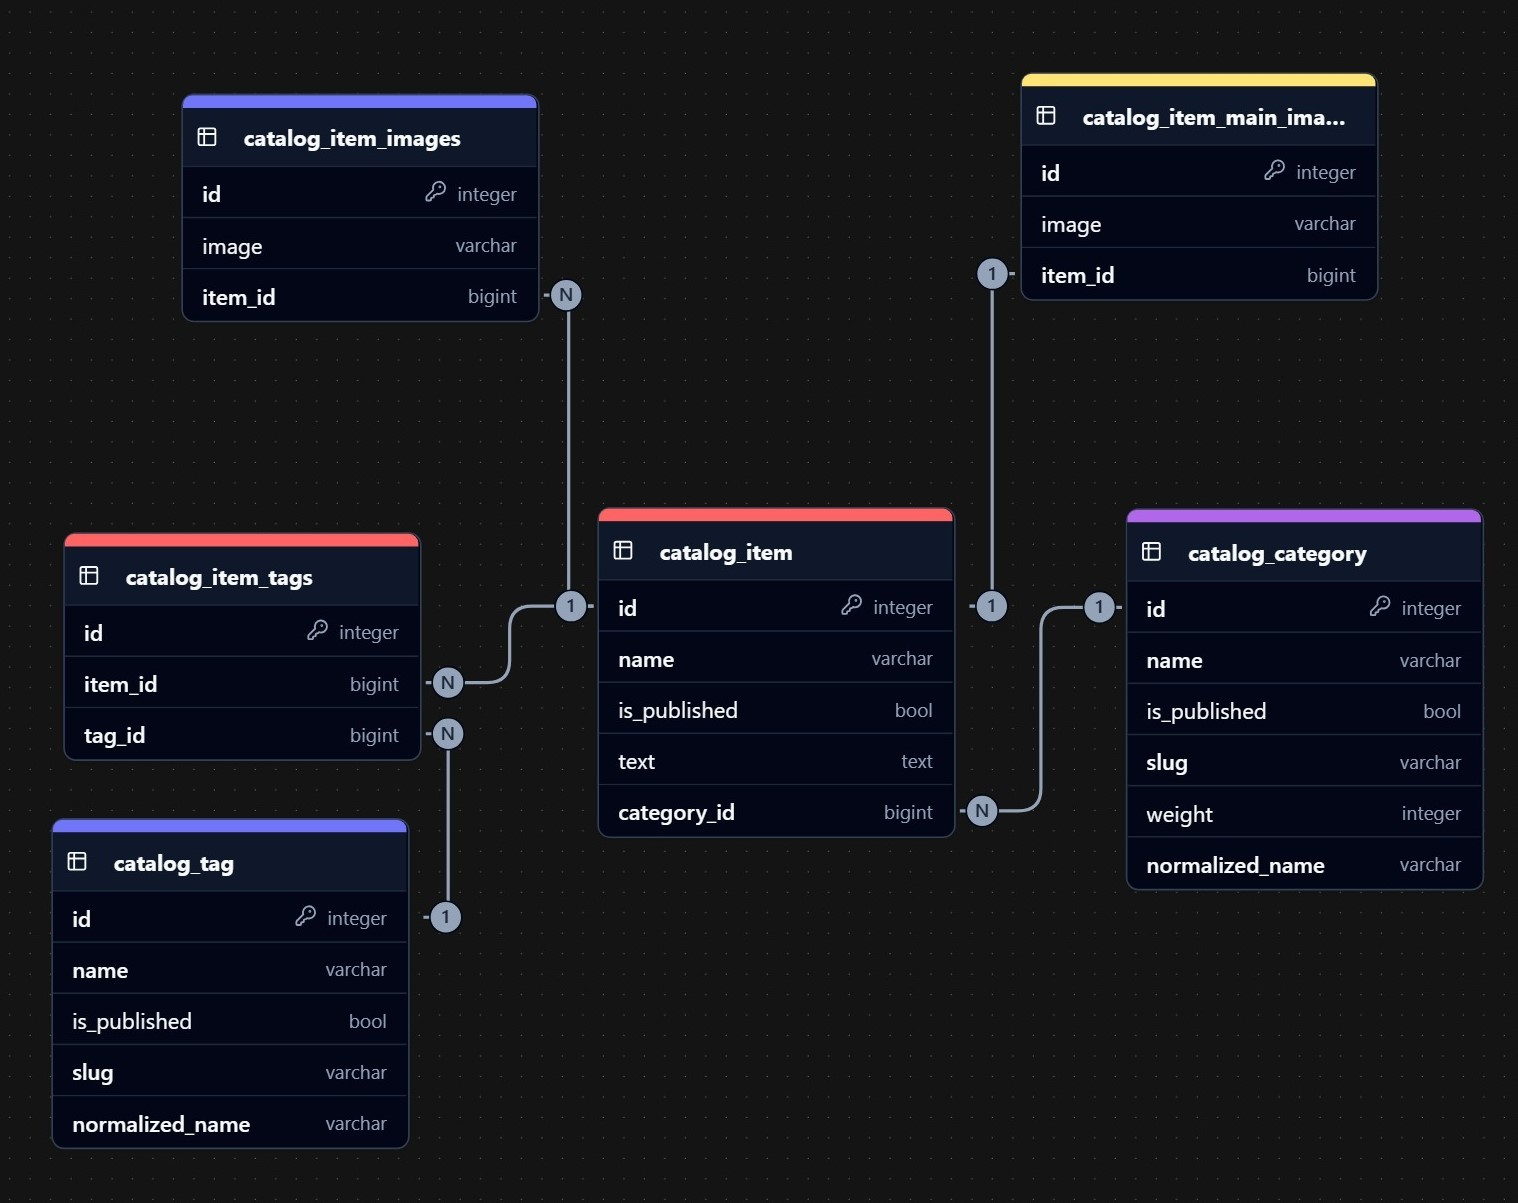
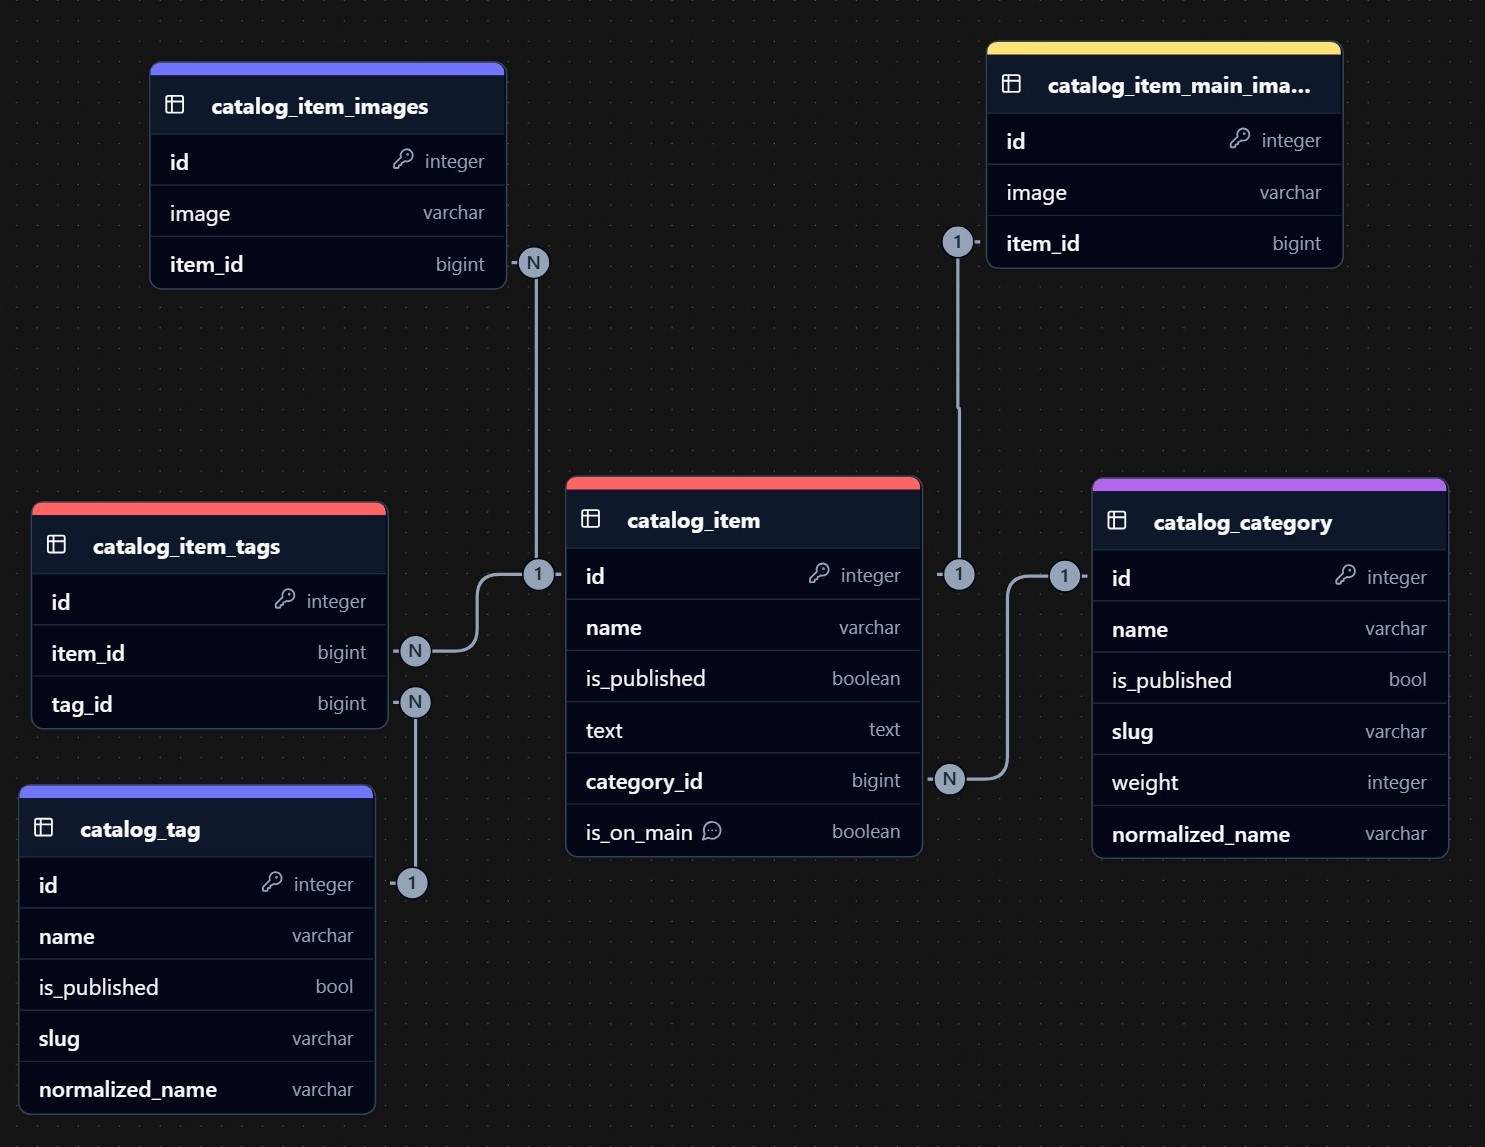
do first task
- add is_on_main field to item
- make view to get all data from db
- add new tests
- update ER diagram

Changed region(s): [[0.0, 0.0305, 0.9912, 0.9765], [0.031, 0.5187, 0.1239, 0.5798], [0.5576, 0.5798, 0.6195, 0.6408]]

diff --git a/lyceum/templates/catalog/item.html b/lyceum/templates/catalog/item.html
@@ -1,44 +1,54 @@
 {% extends 'base.html' %}
 {% load static %}
 
-{% block title %}FurFriends — {{ name }}{% endblock %}
+{% block title %}FurFriends — {{ item.name }}{% endblock %}
 
 {% block content %}
 <div class="row justify-content-center py-4">
-    <h1 class="text-center mb-4 title">{{ name }}</h1>
+    <h1 class="text-center mb-4 title">{{ item.name }}</h1>
     <div class="card h-100 bg-dark text-light shadow-lg border-0 item-detail-card">
         <div class="row h-100 g-4">
             <div class="col-md-6 d-flex item-image">
-                <img src="{% static image %}" alt="{{ name }}" class="img-fluid">
+                <img src="{{ item.main_image.get_image_300x300.url }}" alt="{{ name }}" class="img-fluid w-100">
             </div>
             <div class="col-md-6 card-body d-flex flex-column p-4 item-info">
                 <div class="flex-grow-1">
-                    <h5 class="card-title mb-1">Описание</h5>
-                    <p class="card-text mb-2">{{ description }}</p>
-                    <form method="post" class="mb-0">
-                        {% csrf_token %}
-                        <div class="mb-3">
-                            <label for="gender" class="form-label text-light">Пол:</label>
-                            <select name="gender" id="gender" class="form-select bg-dark text-light border-0">
-                                {% for choice in gender_choices %}
-                                    <option value="{{ choice.0 }}" {% if choice.0 == gender %}selected{% endif %}>
-                                        {{ choice.1 }}
-                                    </option>
+                    <div class="card-text">
+                        <p class="item-category"><strong>Категория:</strong> {{ item.category.name }}</p>
+                        <p class="item-tags"><strong>Теги:</strong> {% for tag in item.tags.all %}
+                            <span class="fw-normal fst-italic">{{ tag.name }}</span>{% if not forloop.last %}, {% endif %}
+                        {% endfor %}</p>
+
+                        <p class="mb-0"><strong>Описание:</strong> </p>
+                        {{ item.text|safe }}
+
+                        <p class="item-images"><strong>Фото:</strong></p>
+                        {% if item.images.all %}
+                        <div id="carouselExampleControls" class="carousel slide" data-bs-ride="carousel">
+                            <div class="carousel-inner">
+                                {% for image in item.images.all %}
+                                    {% if forloop.first %}
+                                    <div class="carousel-item active">
+                                    {% else %}
+                                    <div class="carousel-item">
+                                    {% endif %}
+                                        <img src="{{ image.get_image_300x300.url }}" alt="{{ item.name }} - Additional Image" class="d-block mx-auto">
+                                    </div>
                                 {% endfor %}
-                            </select>
+                            </div>
+                            <button class="carousel-control-prev" type="button" data-bs-target="#carouselExampleControls" data-bs-slide="prev">
+                                <span class="carousel-control-prev-icon" aria-hidden="true"></span>
+                                <span class="visually-hidden">Previous</span>
+                            </button>
+                            <button class="carousel-control-next" type="button" data-bs-target="#carouselExampleControls" data-bs-slide="next">
+                                <span class="carousel-control-next-icon" aria-hidden="true"></span>
+                                <span class="visually-hidden">Next</span>
+                            </button>
                         </div>
-                        <div class="mb-3">
-                            <label for="breed" class="form-label text-light">Порода:</label>
-                            <select name="breed" id="breed" class="form-select bg-dark text-light border-0">
-                                {% for choice in breed_choices %}
-                                    <option value="{{ choice.0 }}" {% if choice.0 == breed %}selected{% endif %}>
-                                        {{ choice.1 }}
-                                    </option>
-                                {% endfor %}
-                            </select>
-                        </div>
-                        <button type="submit" class="btn btn-primary w-100 mt-3">Добавить в корзину</button>
-                    </form>
+                        {% else %}
+                            <p>No additional images available.</p>
+                        {% endif %}
+                    </div>
                 </div>
                 <a href="{% url 'catalog:item_list' %}" class="btn btn-secondary mt-1">Вернуться к списку</a>
             </div>

diff --git a/lyceum/templates/includes/item_card.html b/lyceum/templates/includes/item_card.html
@@ -3,12 +3,19 @@
     <div class="card mx-auto text-light border-0 shadow-sm item-card">
         <div class="row g-0 h-100">
             <div class="col-md-6 d-flex item-image">
-                <img src="{% static item.image %}" alt="{{ item.name }}" class="img-fluid w-100">
+                <img src="{{ item.main_image.get_image_300x300.url }}" alt="{{ item.name }}" class="img-fluid w-100">
             </div>
             <div class="col-md-6 card-body h-100 d-flex flex-column p-3 item-info">
                 <div class="flex-grow-1 overflow-auto">
-                    <h5 class="card-title">{{ item.name }}</h5>
-                    <p class="card-text">{{ item.description }}</p>
+                    <h5 class="card-title text-center">{{ item.name }}</h5>
+                    <div class="card-text">
+                        <p class="item-category"><strong>Категория:</strong> {{ item.category.name }}</p>
+                        <p class="item-tags"><strong>Теги:</strong> {% for tag in item.tags.all %}
+                            <span class="fw-normal fst-italic">{{ tag.name }}</span>{% if not forloop.last %}, {% endif %}
+                        {% endfor %}</p>
+                        <p class="mb-0"><strong>Описание:</strong> </p>
+                        {{ item.text|truncatewords_html:10|safe }}
+                    </div>
                 </div>
                 <a href="{% url 'catalog:item_detail' pk=item.pk %}" class="btn btn-primary mt-auto">Подробнее</a>
             </div>

diff --git a/lyceum/catalog/views.py b/lyceum/catalog/views.py
@@ -1,48 +1,56 @@
-from http import HTTPStatus
-
+from django.db.models import Prefetch
 from django.http import HttpResponse
-from django.shortcuts import render
+from django.shortcuts import get_object_or_404, render
 
-ITEMS = {
-    1: {
-        "pk": 1,
-        "name": "Котик",
-        "description": (
-            "Милый котик для вашего дома. "
-            "Идеальный компаньон для любого любителя животных!"
-        ),
-        "image": "images/cat.jpg",
-    },
-    2: {
-        "pk": 2,
-        "name": "Енотик",
-        "description": (
-            "Игривый енот для радости. Отличный друг для весёлых моментов!"
-        ),
-        "image": "images/raccoon.jpg",
-    },
-}
-
-
-def get_item_view(request, pk, template_name):
-    if int(pk) in ITEMS:
-        item_data = ITEMS[pk]
-        return render(request, template_name, item_data)
-    return HttpResponse("Детали товара", status=HTTPStatus.OK)
+from catalog.models import Item, ItemImages, Tag
 
 
 def item_list(request):
     template = "catalog/catalog.html"
-    items = list(ITEMS.values())
-    return render(request, template, {"items": items})
+    items = (
+        Item.objects.filter(is_published=True)
+        .select_related("category", "main_image")
+        .prefetch_related(
+            Prefetch(
+                "tags",
+                queryset=Tag.objects.filter(is_published=True).only("name"),
+            )
+        )
+        .only("name", "text", "category", "main_image")
+        .order_by("category__name")
+    )
 
-
-def item_card(request, pk):
-    return get_item_view(request, pk, "catalog/item_card.html")
+    context = {
+        "items": items,
+    }
+    return render(request, template, context)
 
 
 def item_detail(request, pk):
-    return get_item_view(request, pk, "catalog/item.html")
+    template = "catalog/item.html"
+    item = get_object_or_404(
+        Item.objects.select_related(
+            "category",
+            "main_image",
+        )
+        .prefetch_related(
+            Prefetch(
+                "tags",
+                queryset=Tag.objects.filter(is_published=True).only("name"),
+            ),
+            Prefetch(
+                "images",
+                queryset=ItemImages.objects.only("image"),
+            ),
+        )
+        .only("name", "text", "main_image", "category"),
+        pk=pk,
+        is_published=True,
+    )
+    context = {
+        "item": item,
+    }
+    return render(request, template, context)
 
 
 def reg_expression(request, pk):

diff --git a/lyceum/catalog/tests/testContext.py b/lyceum/catalog/tests/testContext.py
@@ -1,0 +1,62 @@
+from django.test import Client, TestCase
+from django.urls import reverse
+
+from catalog.models import Category, Item, Tag
+
+
+class TestContext(TestCase):
+    @classmethod
+    def setUpClass(cls):
+        super().setUpClass()
+        cls.published_category = Category.objects.create(
+            is_published=True,
+            name="Тестовая опубликованная категория",
+            slug="published_category",
+            weight=100,
+        )
+        cls.unpublished_category = Category.objects.create(
+            is_published=False,
+            name="Тестовая неопубликованная категория",
+            slug="unpublished_category",
+            weight=100,
+        )
+        cls.published_tag = Tag.objects.create(
+            is_published=True,
+            name="Опубликованный тэг",
+            slug="published_tag",
+        )
+        cls.unpublished_tag = Tag.objects.create(
+            is_published=False,
+            name="Непубликованный тэг",
+            slug="unpublished_tag",
+        )
+        cls.published_item = Item(
+            is_on_main=True,
+            is_published=True,
+            name="Опубликованный товар",
+            category=cls.published_category,
+            text="превосходно",
+        )
+        cls.unpublished_item = Item(
+            is_on_main=True,
+            is_published=False,
+            name="Непубликованный товар",
+            category=cls.unpublished_category,
+            text="превосходно",
+        )
+        cls.published_item.save()
+        cls.unpublished_item.save()
+        cls.published_item.tags.add(cls.published_tag.pk)
+        cls.published_item.tags.add(cls.unpublished_tag.pk)
+
+    def test_home_page_show_correct_context(self):
+        response = Client().get(reverse("homepage:main"))
+        self.assertIn("items", response.context)
+
+    def test_home_count_item(self):
+        response = Client().get(reverse("homepage:main"))
+        items = response.context["items"]
+        self.assertEqual(len(items), 1)
+
+
+__all__ = []

diff --git a/lyceum/catalog/models.py b/lyceum/catalog/models.py
@@ -132,11 +132,18 @@ class ItemMainImage(models.Model):
     )
 
     def get_image_300x300(self):
-        return get_thumbnail(self.image, "300x300", crop="center", quality=51)
+        return get_thumbnail(
+            self.image,
+            "300x300",
+            crop="center",
+            quality=100,
+        )
 
     def image_tmb(self):
         if self.image:
-            return mark_safe(f'<img src="{self.image.url}" width="50">')
+            return mark_safe(
+                f'<img src="{self.get_image_300x300().url}" width="50">',
+            )
         return "Нет изображения"
 
     image_tmb.short_description = "превью"
@@ -163,7 +170,12 @@ class ItemImages(models.Model):
     )
 
     def get_image_300x300(self):
-        return get_thumbnail(self.image, "300x300", crop="center", quality=51)
+        return get_thumbnail(
+            self.image,
+            "300x300",
+            crop="center",
+            quality=100,
+        )
 
     def image_tmb(self):
         if self.image:
@@ -184,7 +196,6 @@ class ItemImages(models.Model):
 
 
 class Item(BaseModel):
-
     text = HTMLField(
         validators=[
             ValidateMustContain("Превосходно", "Роскошно"),
@@ -210,7 +221,14 @@ class Item(BaseModel):
         help_text="Выберите один или несколько тегов для этого товара.",
     )
 
+    is_on_main = models.BooleanField(
+        default=False,
+        verbose_name="на главной странице",
+        help_text="Если True, то товар отображается на главной странице",
+    )
+
     class Meta:
+        ordering = ("name",)
         verbose_name = "товар"
         verbose_name_plural = "товары"
 

diff --git a/lyceum/homepage/views.py b/lyceum/homepage/views.py
@@ -2,13 +2,28 @@ from http import HTTPStatus
 
 import django.http
 import django.shortcuts
+from django.db.models import Prefetch
 
-from catalog.models import Item
+from catalog.models import Item, Tag
 
 
 def home(request):
     template = "homepage/main.html"
-    items = Item.objects.all()
+    items = (
+        Item.objects.filter(
+            is_published=True,
+            is_on_main=True,
+        )
+        .select_related("category", "main_image")
+        .prefetch_related(
+            Prefetch(
+                "tags",
+                queryset=Tag.objects.filter(is_published=True).only("name"),
+            )
+        )
+        .only("name", "text", "category", "main_image")
+    )
+
     context = {
         "items": items,
     }

diff --git a/lyceum/catalog/migrations/0007_item_is_on_main.py b/lyceum/catalog/migrations/0007_item_is_on_main.py
@@ -1,0 +1,22 @@
+# Generated by Django 4.2.9 on 2025-03-20 15:46
+
+from django.db import migrations, models
+
+
+class Migration(migrations.Migration):
+
+    dependencies = [
+        ("catalog", "0006_alter_item_text"),
+    ]
+
+    operations = [
+        migrations.AddField(
+            model_name="item",
+            name="is_on_main",
+            field=models.BooleanField(
+                default=False,
+                help_text="Если True, то товар отображается на главной странице",
+                verbose_name="на главной странице",
+            ),
+        ),
+    ]

diff --git a/lyceum/catalog/migrations/0008_alter_item_options.py b/lyceum/catalog/migrations/0008_alter_item_options.py
@@ -1,0 +1,21 @@
+# Generated by Django 4.2.9 on 2025-03-20 15:51
+
+from django.db import migrations
+
+
+class Migration(migrations.Migration):
+
+    dependencies = [
+        ("catalog", "0007_item_is_on_main"),
+    ]
+
+    operations = [
+        migrations.AlterModelOptions(
+            name="item",
+            options={
+                "ordering": ("name",),
+                "verbose_name": "товар",
+                "verbose_name_plural": "товары",
+            },
+        ),
+    ]
